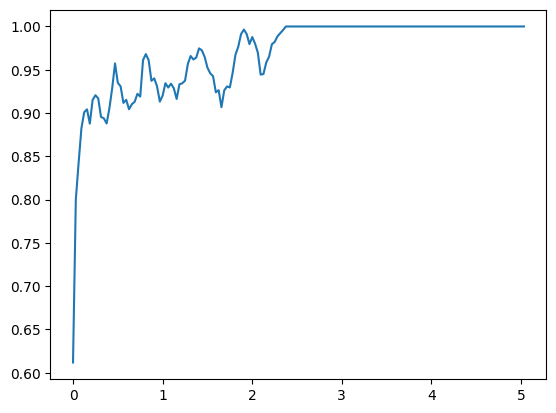
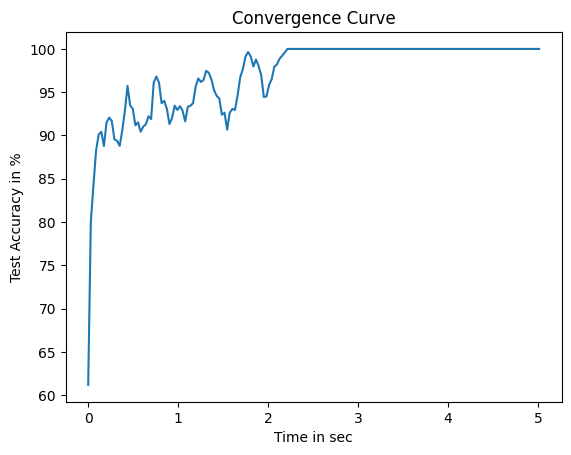
completed code

Changed region(s): [[0.0, 0.0, 1.0, 0.9879]]

diff --git a/assn1/submit.py b/assn1/submit.py
@@ -5,14 +5,6 @@ from scipy.linalg import khatri_rao
 import random as rnd
 import time as tm
 
-def stepLengthGenerator( mode, eta ):
-	if mode == "constant":
-		return lambda t: eta
-	elif mode == "linear":
-		return lambda t: eta/(t+1)
-	elif mode == "quadratic":
-		return lambda t: eta/np.sqrt(t+1)
-
 # SUBMIT YOUR CODE AS A SINGLE PYTHON (.PY) FILE INSIDE A ZIP ARCHIVE
 # THE NAME OF THE PYTHON FILE MUST BE submit.py
 # DO NOT INCLUDE PACKAGES LIKE SKLEARN, SCIPY, KERAS ETC IN YOUR CODE
@@ -78,18 +70,11 @@ def get_features( X ):
 	X_new = X_new.T
 	return X_new
 
-def stepLengthGenerator( mode, eta ):
-    if mode == "constant":
-        return lambda t: eta
-    elif mode == "liear":
-        return lambda t: eta/(t+1)
-    elif mode == "quadratic":
-        return lambda t: eta/np.sqrt(t+1)
-
 ################################
 # Non Editable Region Starting #
 ################################
-def solver( X, y, timeout, spacing ):	
+def solver( X, y, timeout, spacing ):
+	
 	# W is the model vector and will get returned once timeout happens
 	# B is the bias term that will get returned once timeout happens
 	# The bias term is optional. If you feel you do not need a bias term at all, just keep it set to 0
@@ -100,6 +85,8 @@ def solver( X, y, timeout, spacing ):
 	# returned when timeout happens. Take care to update W, B whenever you update your W_extended
 	# variable otherwise you will get wrong results.
 	# Also note that the dimensionality of W may be larger or smaller than 9
+
+
 	(n, d) = X.shape
 	t = 0
 	totTime = 0
@@ -110,31 +97,28 @@ def solver( X, y, timeout, spacing ):
 #  Non Editable Region Ending  #
 ################################
 
-    # You may reinitialize W, B to your liking here e.g. set W to its correct dimensionality
-    # You may also define new variables here e.g. step_length, mini-batch size etc
+	# You may reinitialize W, B to your liking here e.g. set W to its correct dimensionality
+	# You may also define new variables here e.g. step_length, mini-batch size etc
 	X = get_features(X)
-	C = 5.0
-    # d = X.shape[1]
-	d = X.shape[1]
-    W = np.zeros(d)
-    updater = stepLengthGenerator( "linear", 1 )
-	def getCSVMObjVal( theta ):
-		w = theta
-		hingeLoss = np.maximum( 0, 1 - y * ( np.dot( X, w ) ) )
-		return 0.5 * np.dot( w, w ) + C * np.sum( hingeLoss )
-
-	def getCSVMGrad( theta ):
-		w = theta	
-		discriminant = y * ( np.dot( X, w ) )
-		g = np.zeros( (y.size,))
-		g[discriminant < 1] = -1
-		delw = w + C * np.dot( X.T * g, y )
-		return delw
-
-	objValSeries = []
-	timeSeries = []
-	cumulative = W   
 	y = get_renamed_labels(y)
+
+	n,d = X.shape
+	W = np.zeros(d)
+	
+	# Hyper parameters
+	updater = lambda t: eta/(t+1)
+	C = 5.0
+	eta = 0.8
+
+	def grad( theta ):
+		d = y*(X@(theta.reshape(-1,1))).reshape(-1)
+
+		# gradient of loss
+		g = np.zeros((y.size))
+		g[d < 1] = -1
+		delw = theta + C * np.dot( X.T * g, y )
+		return delw
+  
 ################################
 # Non Editable Region Starting #
 ################################
@@ -171,11 +155,8 @@ def solver( X, y, timeout, spacing ):
 		# In this scheme, W, B play the role of the "cumulative" variables in the course module optLib (see the cs771 library)
 		# W_run, B_run on the other hand, play the role of the "theta" variable in the course module optLib (see the cs771 library)
 
-		delta = getCSVMGrad( W )
+		delta = grad( W )
 		W = W - updater( t + 1 ) * delta
-		cumulative = cumulative + W
-		objValSeries.append( getCSVMObjVal( cumulative/(t+2) ) )
-		timeSeries.append( totTime )
 
 	
 		
